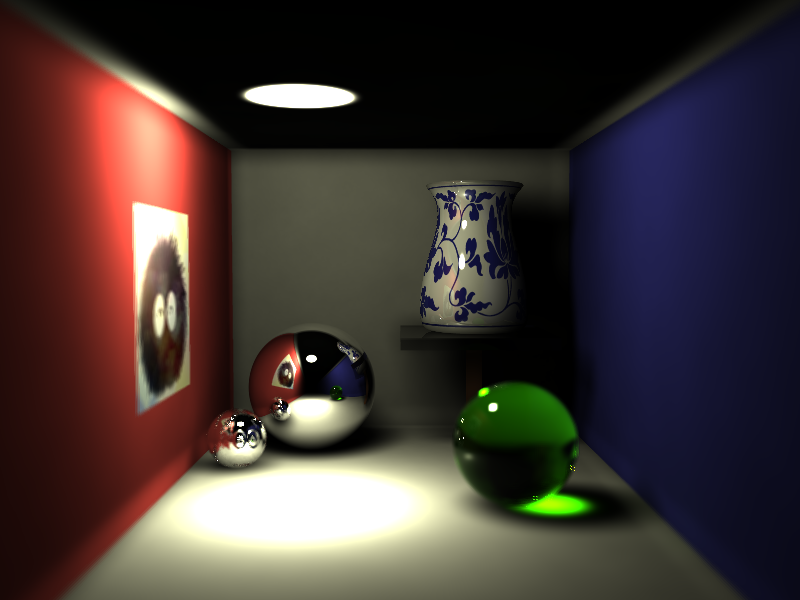
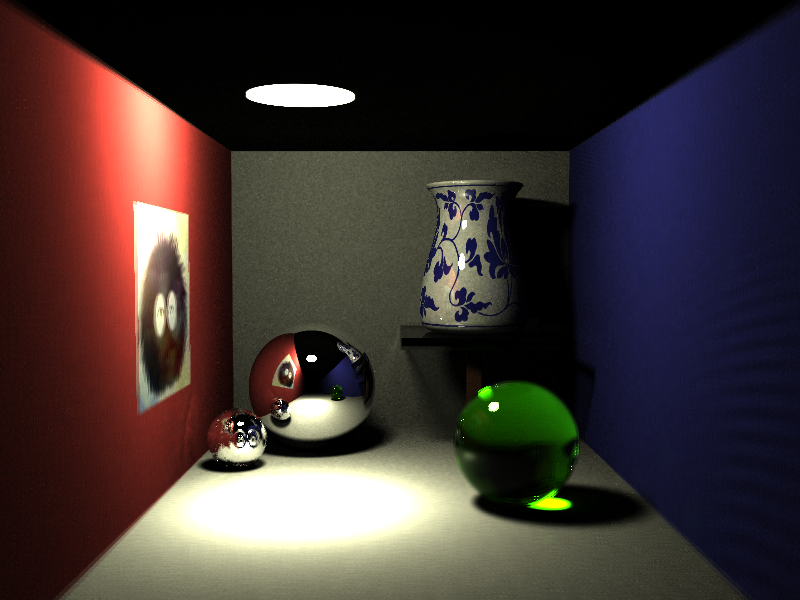
grumble

diff --git a/document.md b/document.md
@@ -14,11 +14,17 @@
 
 **最终效果**
 
-相机光圈采样16次，渐进式光子映射迭代90次，每次100000光子，$\alpha=0.7$，初始半径10.0。
-
 高清大图见`demo/demo.png`，另外几个例子见`demo/`。
 
+a. 相机光圈采样16次，渐进式光子映射迭代90次，每次100000光子，$\alpha=0.7$，初始半径10.0。
+
+![demo](demo/demo_10.png)
+
+b. 相机光圈采样4次，渐进式光子映射迭代1680次，每次100000光子，$\alpha=0.7$，初始半径1.0。
+
 ![demo](demo/demo.png)
+
+可以看出，初始半径大，则图片噪声更小，图片更加平滑，但是光照细节部分丢失，边缘部分偏差较大；初始半径小，会导致图片噪声大，但是光照细节部分体现得很好，边缘部分偏差较小。
 
 ## 实现细节
 
@@ -174,11 +180,11 @@ intersect_result rotate_bezier::intersect(const ray &r, double t0, double u0, do
 
 ### 景深效果
 
-为了实现景深效果，需要为摄像机模型引入光圈aperture、焦距focal_length两个参数。
+为了实现景深效果，需要为相机模型引入光圈aperture、焦距focal_length两个参数。
 
 首先，渲染出的图像上每一个像素实际上对应底片（或焦平面）上一个点$\mathbf{d}$，考虑相机的位置$\mathbf{p}$，该点相对于世界的坐标为$\mathbf{t}=\mathbf{p} + \mathbf{d}$。
 
-底片某点获得的光强，考虑到透镜的作用的同时做一些简化，可以认为是光线通过光圈，打到这一点的光强的累加（积分）。在从底片向场景发射光线的时候，可以对光圈进行采样（均匀或者随机，我选择均匀采样），采样点记为$\mathbf{o}$（绝对坐标），则这根光线从底片上$\mathbf{t}$出发，在相机内部经过光圈中一点$\mathbf{o}$，射向场景。摄像机外看上去就好像$\mathbf{o}$点发出，方向为$\mathbf{o}-\mathbf{t}$。这样有一个问题，渲染出来的图像是上下左右镜像的。解决方法也很简单，只需要发射光线的时候方向设定为$\mathbf{t}-\mathbf{o}$即可。
+底片某点获得的光强，考虑到透镜的作用的同时做一些简化，可以认为是光线通过光圈，打到这一点的光强的累加（积分）。在从底片向场景发射光线的时候，可以对光圈进行采样（均匀或者随机，我选择均匀采样），采样点记为$\mathbf{o}$（绝对坐标），则这根光线从底片上$\mathbf{t}$出发，在相机内部经过光圈中一点$\mathbf{o}$，射向场景。相机外看上去就好像$\mathbf{o}$点发出，方向为$\mathbf{o}-\mathbf{t}$。这样有一个问题，渲染出来的图像是上下左右镜像的。解决方法也很简单，只需要发射光线的时候方向设定为$\mathbf{t}-\mathbf{o}$即可。
 
 相关代码：
 
@@ -214,7 +220,7 @@ else // no depth of field
 }
 ```
 
-值得注意的是，光圈大小变为0时，摄像机退化为小孔成像模型。
+值得注意的是，光圈大小变为0时，相机退化为小孔成像模型。
 
 ### 纹理映射
 

diff --git a/README.md b/README.md
@@ -6,14 +6,15 @@ Yet Another Ray Tracer
 * Convert Bézier surface and rotated Bézier curve to triangle mesh
 * Render spheres, axis-aligned cubes, triangles, triangles meshes, rotated Bézier curves, using Progressive Photon Mapping algorithm
 * Depth of Field
-* Super Sample Anti-Aliasing
 * Texture Mapping
 * Bump Mapping
 * Accelerate rendering using kd-tree and multithreading
 
 ## Demo
 
-![demo](https://github.com/twd2/ray_tracer/blob/master/demo/demo.png?raw=true)
+![demo](demo/demo_10.png)
+
+![demo](demo/demo.png)
 
 ## References
 
